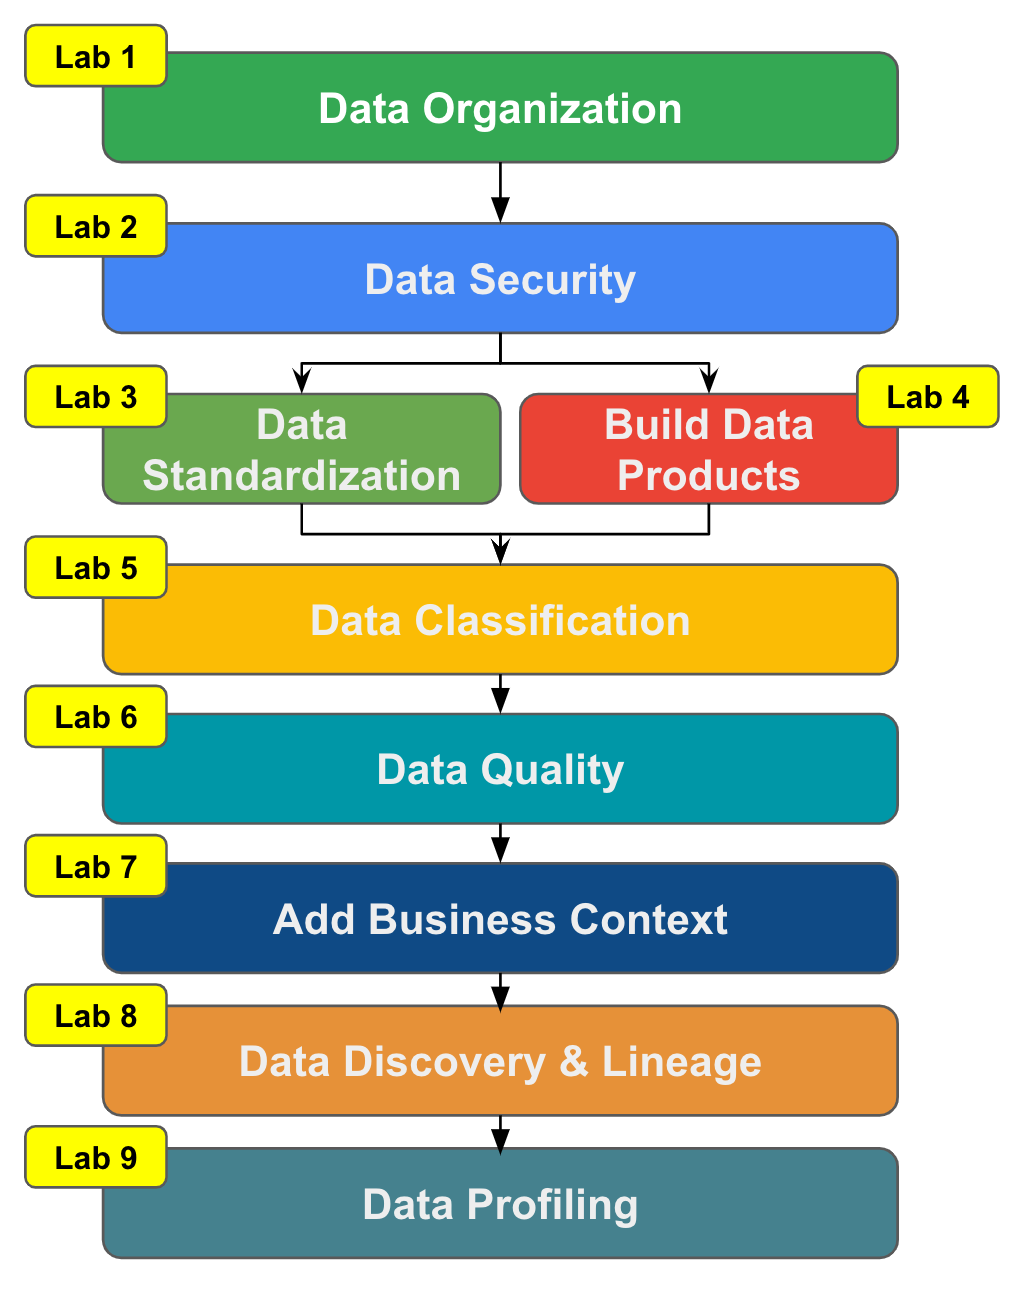
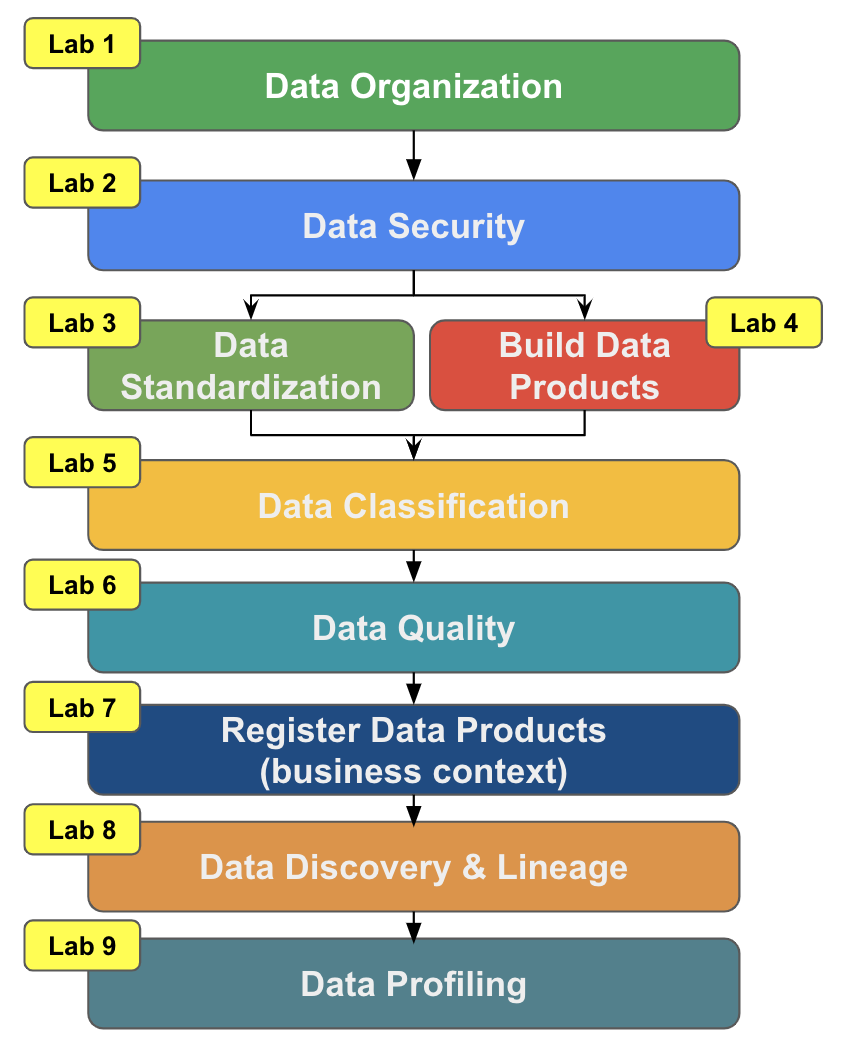
changes

diff --git a/README.md b/README.md
@@ -165,7 +165,7 @@ We have a series of labs designed to get hands-on-experience with Dataplex conce
 |  [Lab4](/lab4-build-data-products/README.md)   | Build Data Products | Serverless Dataplex tasks offer with open, simple APIs that make it easier to integrate them with already-existing Data pipelines, which makes them complementary in nature. In this lab, you will discover how to integrate Dataplex functionalities with your data product engineering pipeline.  We will use  [Configuration-driven Serverless Dataproc Templates](https://github.com/GoogleCloudPlatform/dataproc-templates) for incremental data using from GCS to BQ, incorporate a Dataplex's data quality task to verify the raw data and then transform data use for building data products. | |
 | [Lab5](/lab5-data-classification/README.md) | Data Classification using DLP | You will use DLP Data Profiler in this lab so that it can automatically classify the BQ data, which will then be used by a Dataplex for building data classification tags. |  |
 | [Lab6](/lab6-data-quality/README.mde) | Data Quality |  in this lab you will learn how to execute an end-to-end data quality process, including how to define **DQ rules**, assess and **analyze** DQ findings, build an dq analysis **dashboard**, manage DQ **incidents**, and finally publish DQ score **tags** to the catalog.  | 
-|[Lab7](/lab7-tagging-business-glossary/README.md) | Tag template and bulk tagging | In this lab, you will learn how to create business metadata tags on the Dataplex Data Product entity at scale across domains using custom utilities and Composer. | 
+|[Lab7](/lab7-register-data-products/README.md) | Tag template and bulk tagging | In this lab, you will learn how to create business metadata tags on the Dataplex Data Product entity at scale across domains using custom utilities and Composer. | 
 | [Lab8](/lab8-data-discovery-lineage/README.md) | Data catalog Search and Data Lineage| You will learn how to find data using the logical structure, perform advanced data discovery, provide additional(wiki-style) product overview and look at Data lineage |  
 | [Lab9](/lab9-data-profiling/README.md) | Data profiling| You will learn how to run data profiling tasks on BigQuery tables to better understand data for cleansing, and analyzing | 
 

diff --git a/lab7-register-data-products/README.md b/lab7-register-data-products/README.md
@@ -10,12 +10,12 @@ We have already explored the Data Quality tagging in the previous lab.
 
     In order to verify Go to Dataplex  → Manage tab → Click on Customer - Source Domain Lake → Click on Customer Data Product Zone
 
-    ![entities](/lab7-tagging-business-glossary/resources/imgs/entities_screnshot.png)
+    ![entities](/lab7-register-data-products/resources/imgs/entities_screnshot.png)
 
     Do this for all the other domain data product zones as well. 
 
 - **Step2**: Make sure tag templates are created in ${PROJECT_ID}  created. Go to Dataplex → Manage Catalog → Tag templates. You should see the below 4 Tag Templates. Open each one and look the schema: 
-     ![tagtemplates](/lab7-tagging-business-glossary/resources/imgs/tag_templates.png)
+     ![tagtemplates](/lab7-register-data-products/resources/imgs/tag_templates.png)
 
 - **Step3**: Make sure Data is populated by the DLP job profiler into ${PROJECT_ID}.central_dlp_data dataset. If the data has not been populated the data classification tags will fail. 
     ```bash 
@@ -83,10 +83,10 @@ We have already explored the Data Quality tagging in the previous lab.
 - **Step4**: Go to Dataplex UI → Process → Custom Spark tab → Monitor the job → you will find a job named “customer-tag-job”
 
 - **Step5**: Once job is successful, Go to Dataplex Search Tab and type this into the search bar - tag:data_product_information
-    ![tag-search](/lab7-tagging-business-glossary/resources/imgs/tag-search.png)
+    ![tag-search](/lab7-register-data-products/resources/imgs/tag-search.png)
 - **Step6**: Click on customer_data -> Go to the Tags section and make sure the data product information is created.
 
-    ![dp_info_tag](/lab7-tagging-business-glossary/resources/imgs/dp_info_tag.png)
+    ![dp_info_tag](/lab7-register-data-products/resources/imgs/dp_info_tag.png)
 
     As you can see the automation utilities was able to derive most of the information. But at times, certain values may needs to be overriden. 
 
@@ -173,9 +173,3 @@ This task is optional and finish this task only if you have time left for your l
     - **data_governance_transactions_dp_info_tag**
     - **data_governance_transactions_exchange_tag**
     - **data_governance_transactions_quality_tag**
-
-
- 
- 
-
-

diff --git a/lab6-data-quality/README.md b/lab6-data-quality/README.md
@@ -19,7 +19,7 @@ High Level DQ architecture
 - Reviewing the data quality metric published in BigQuery 
 - Creating a data quality dashboard 
 - Data quality incident management using Cloud logging and monitoring
-- Creating data quality score tags for the data products in the catalog.
+- Creating data quality score tags for the data products in the catalog(in lab 7)
 
 
 ## Configure & execute end-to-end Data quality task for Customer Domain Data Products
